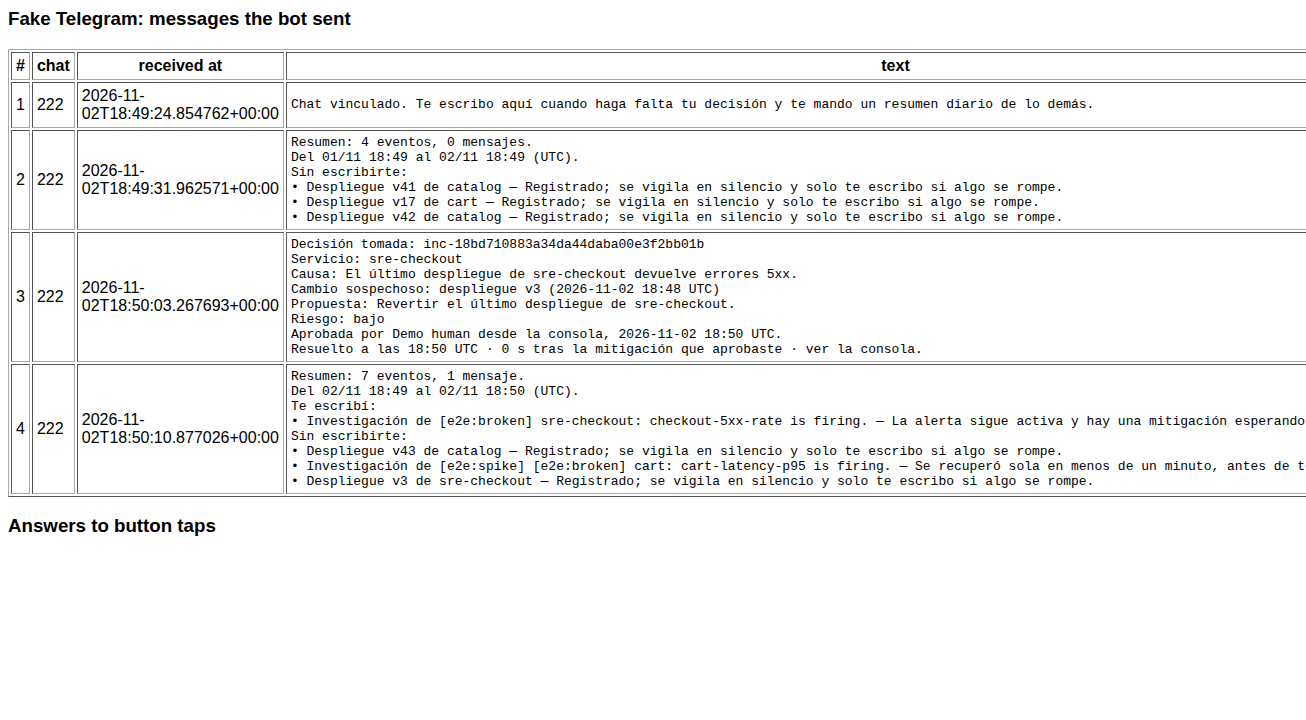
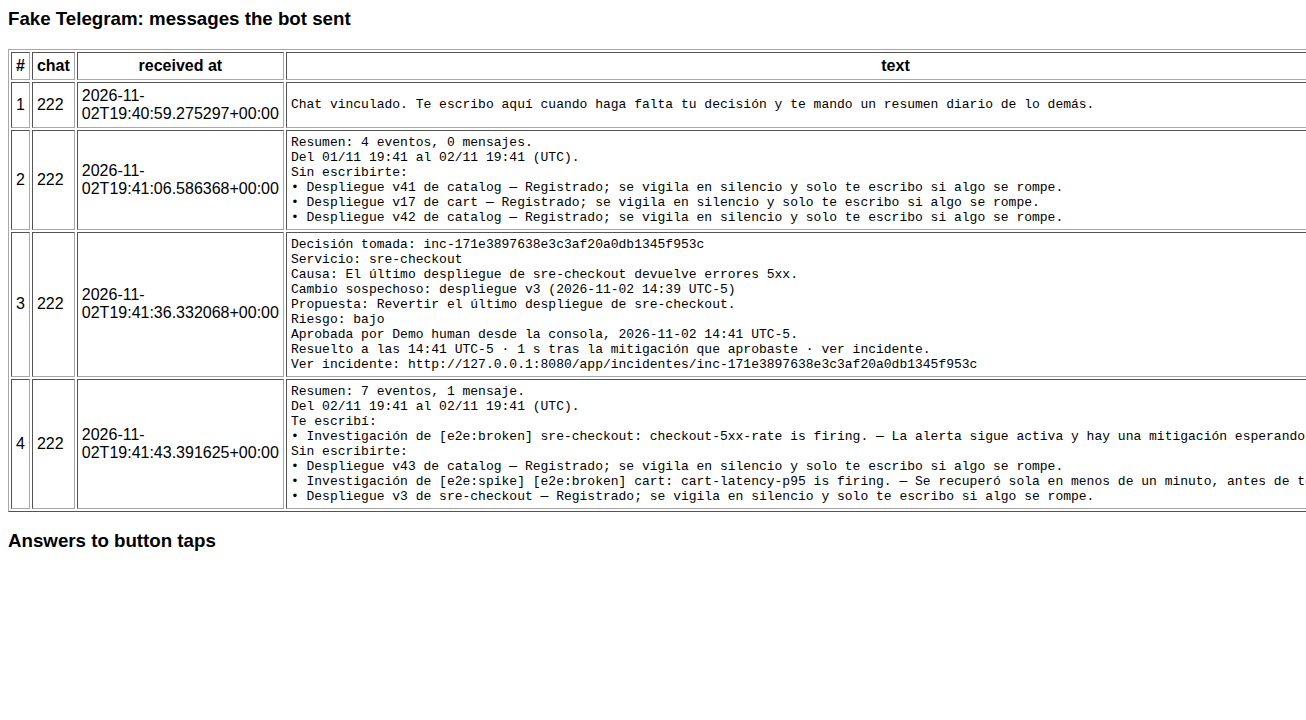
test(chat): console link button, text fallback and Bogotá times in the chat E2Es
Refs #723

diff --git a/scripts/telegram_e2e.py b/scripts/telegram_e2e.py
@@ -28,6 +28,20 @@ LEGACY = 777  # linked before #767: no principal
 SECOND, VIEWER = 555, 666  # linked as demo-human, and as a human without run.approve
 VIEWER_ID, VIEWER_NAME = "e2e-viewer", {"display_name": "E2E viewer"}
 GROUP = -100767  # a group the operator is in: Telegram reports the operator as the sender
+# Set by scripts/run_telegram_e2e.sh for the gateway: a host the fake accepts link buttons for.
+CONSOLE = os.environ["CONSOLE_PUBLIC_URL"].rstrip("/")
+
+
+def link_of(message: dict[str, Any]) -> list[list[str]]:
+    """The message's «Ver incidente» row, as the fake recorded it."""
+    incident_id = message["text"].splitlines()[0].rsplit(" ", 1)[-1]
+    expected = [["Ver incidente", f"{CONSOLE}/incidentes/{incident_id}"]]
+    return [row for row in message["buttons"] if [list(b) for b in row] == expected]
+
+
+def decides(message: dict[str, Any]) -> bool:
+    """Whether the message still offers decision buttons; its link decides nothing."""
+    return any(not data.startswith("http") for row in message["buttons"] for _, data in row)
 
 
 def http(method: str, url: str, body: Any = None, headers: dict[str, str] | None = None) -> Any:
@@ -372,11 +386,17 @@ def proposals(stamp: str, legacy_code: str) -> None:
             == ["reject"],
             "each offers Aprobar and Rechazar": buttons
             == [["Aprobar", "Rechazar"]] * len(JOURNEYS),
+            "each links to its incident in the console": all(
+                m["buttons"][1:] == link_of(m) != [] for m in messages
+            ),
+            "times are in the configured zone (Bogotá)": all(
+                "(2026-10-31 05:00 UTC-5)" in m["text"] for m in messages
+            ),
             "the callback data is opaque": all(
                 TOKEN.fullmatch(d) and "inc-" not in d and "run_" not in d for d in data
             ),
             "a chat linked before #767 gets no buttons but how to decide from it": all(
-                m["buttons"] == [] and m["text"].endswith("vincular este chat a tu usuario.")
+                not decides(m) and m["text"].endswith("vincular este chat a tu usuario.")
                 for m in legacy
             ),
             "only decision messages carry the decision marker": all(
@@ -451,8 +471,10 @@ def approve() -> None:
             "the mitigation is approved": approval_status("approve") == "approved",
             "the answer says who decided": answer.startswith("Aprobada por Demo")
             and "desde Telegram" in answer,
-            "the message shows who decided and loses its buttons": edited["buttons"] == []
+            "the message shows who decided and loses its buttons": not decides(edited)
             and edited["text"].endswith(answer),
+            "it keeps the link to the incident": edited["buttons"] == link_of(edited) != [],
+            "the decision time is in the configured zone": answer.endswith(" UTC-5."),
         },
     )
 
@@ -609,7 +631,7 @@ def stale() -> None:
             "a tap on a version the incident left behind decides nothing": before == [],
             "the operator is told the incident changed": answer == retry
             and answer.startswith("El incidente cambió"),
-            "the old message loses its buttons": old["buttons"] == []
+            "the old message loses its buttons": not decides(old)
             and "desactualizada" in old["text"],
             "one fresh decision message with a new token arrives": len(renewed) == 1
             and renewed[0]["buttons"] != first["buttons"],
@@ -666,7 +688,8 @@ def console() -> None:
         | {"edited": edited, "decisions": rows},
         {
             "a console decision edits the message with no tap": len(edits) == 1
-            and untapped["buttons"] == [],
+            and not decides(untapped)
+            and untapped["buttons"] == link_of(untapped) != [],
             "the edit says what was decided, by whom and where": untapped["text"]
             .splitlines()[-1]
             .startswith("Rechazada por Demo")
@@ -678,7 +701,7 @@ def console() -> None:
             "the mitigation stays rejected": approval_status("console") == "rejected",
             "the answer gives the current state": answer.startswith("Rechazada por")
             and "desde la consola" in answer,
-            "the message shows it and loses its buttons": edited["buttons"] == [],
+            "the message shows it and loses its buttons": not decides(edited),
         },
     )
 
@@ -703,8 +726,8 @@ def recovery() -> None:
         *(json.loads(PROPOSALS.read_text())[j]["incident_id"] for j in ("approve", "stale")),
     )
     recovered = re.fullmatch(
-        r"Resuelto a las \d\d:\d\d UTC · \d+ (s|min) tras la mitigación que aprobaste · "
-        r"ver la consola\.",
+        r"Resuelto a las \d\d:\d\d UTC-5 · \d+ (s|min) tras la mitigación que aprobaste · "
+        r"ver incidente\.",
         resolved["text"].splitlines()[-1],
     )
     record(
@@ -749,7 +772,7 @@ def reject() -> None:
             "the mitigation is rejected": approval_status("reject") == "rejected",
             "the answer and the message say who rejected": answer.startswith("Rechazada por")
             and edited["text"].endswith(answer)
-            and edited["buttons"] == [],
+            and not decides(edited),
         },
     )
 

diff --git a/tests/fake_telegram.py b/tests/fake_telegram.py
@@ -3,7 +3,9 @@ sendMessage with inline keyboards, answerCallbackQuery and editMessageText.
 
 Like Telegram, it keeps an update until a getUpdates offset above its id confirms it, answers
 401 to any other token, 400 to a text over 4096 characters, to a callback answer over 200 and
-to an edit that changes nothing.
+to an edit that changes nothing. It refuses URL buttons on `localhost` or on an IP address that
+is not public (loopback, private, tailnet) with BUTTON_URL_INVALID; that is this fake's stand-in
+for the hosts real Telegram refuses, not a verified copy of its rules.
 `/_test/*` lets the E2E play the user: inject messages and button taps, read what the bot sent
 (with the time each send arrived), the callback answers and the edits, and fail sends.
 
@@ -11,9 +13,11 @@ to an edit that changes nothing.
 """
 
 import asyncio
+import ipaddress
 from datetime import UTC, datetime
 from html import escape
 from typing import Any
+from urllib.parse import urlsplit
 
 from fastapi import FastAPI, Request
 from fastapi.responses import HTMLResponse, JSONResponse
@@ -27,6 +31,20 @@ answers: list[dict[str, Any]] = []
 edits: list[dict[str, Any]] = []
 state = {"next_update": 1, "fail_sends": 0}
 arrived = asyncio.Condition()
+
+
+def _buttons(fields: dict[str, Any]) -> list[list[tuple[str, str]]] | None:
+    """(label, callback data or URL) per button; None when a URL button would be refused."""
+    rows = (fields.get("reply_markup") or {}).get("inline_keyboard", [])
+    for button in (b for row in rows for b in row if "url" in b):
+        host = urlsplit(button["url"]).hostname or ""
+        try:
+            refused = not ipaddress.ip_address(host).is_global
+        except ValueError:
+            refused = host == "localhost" or "." not in host
+        if refused:
+            return None
+    return [[(b["text"], b.get("callback_data") or b["url"]) for b in row] for row in rows]
 
 
 def _reply(result: Any = None, status: int = 200, description: str = "") -> JSONResponse:
@@ -59,15 +77,14 @@ async def bot(token: str, method: str, request: Request) -> JSONResponse:
             return _reply(status=502, description="Bad Gateway (fake failure)")
         if not 1 <= len(fields["text"]) <= 4096:
             return _reply(status=400, description="Bad Request: message is too long")
+        if (buttons := _buttons(fields)) is None:
+            return _reply(status=400, description="Bad Request: BUTTON_URL_INVALID")
         record = {
             "message_id": len(sent) + 1,
             "chat_id": fields["chat_id"],
             "text": fields["text"],
             "received_at": datetime.now(UTC).isoformat(),
-            "buttons": [
-                [(b["text"], b["callback_data"]) for b in row]
-                for row in (fields.get("reply_markup") or {}).get("inline_keyboard", [])
-            ],
+            "buttons": buttons,
         }
         sent.append(record)
         return _reply(record)
@@ -87,9 +104,11 @@ async def bot(token: str, method: str, request: Request) -> JSONResponse:
         )
         if message is None:
             return _reply(status=400, description="Bad Request: message to edit not found")
-        if message["text"] == fields["text"] and not message["buttons"]:
+        if (buttons := _buttons(fields)) is None:
+            return _reply(status=400, description="Bad Request: BUTTON_URL_INVALID")
+        if message["text"] == fields["text"] and message["buttons"] == buttons:
             return _reply(status=400, description="Bad Request: message is not modified")
-        message.update(text=fields["text"], buttons=[])
+        message.update(text=fields["text"], buttons=buttons)
         edits.append({**fields, "edited_at": datetime.now(UTC).isoformat()})
         return _reply(message)
     return _reply(status=404, description="Not Found")

diff --git a/scripts/interrupt_policy_e2e.py b/scripts/interrupt_policy_e2e.py
@@ -15,7 +15,9 @@ the decisions from GET /v1/event-decisions. Ways the policy can fail, each check
    its event;
 5. the decisions answer a caller without alert.read;
 6. a decision taken in the console, and the recovery after it, send a new message or count as
-   an event instead of editing the decision message the operator already has.
+   an event instead of editing the decision message the operator already has;
+7. a console link Telegram refuses as a button (a loopback host here) loses the message instead
+   of travelling as text, or a time is not in the configured zone (Bogotá).
 Appends every observation to /artifacts/interrupt-policy-e2e.json; any failed check exits 1.
 """
 
@@ -40,6 +42,8 @@ OPERATOR = 222
 READER = os.environ["DEMO_HUMAN_API_KEY"]
 INTEGRATION = os.environ["DEPLOY_EXECUTOR_CHANGES_API_KEY"]
 INTAKE_SECRET = os.environ["ALERT_INTAKE_GRAFANA_SECRET"]
+# Set by scripts/run_interrupt_policy_e2e.sh: a loopback console the fake refuses as a button.
+CONSOLE = os.environ["CONSOLE_PUBLIC_URL"].rstrip("/")
 
 
 def http(method: str, path: str, body: Any = None, key: str | None = None) -> tuple[int, Any]:
@@ -202,6 +206,12 @@ def three_events() -> None:
             "a single immediate message": len(immediate) == 1,
             "it is about the broken deploy": "sre-checkout" in immediate[0]["text"],
             "it is the decision message, with its buttons": bool(immediate[0]["buttons"]),
+            "the refused link button travels as a text link": immediate[0]["text"].endswith(
+                f"Ver incidente: {CONSOLE}/incidentes/{immediate[0]['text'].split()[3]}"
+            )
+            and all(
+                not data.startswith("http") for row in immediate[0]["buttons"] for _, data in row
+            ),
             "the digest counts 1 message": ", 1 mensaje." in sent_digest["text"],
             "the spike appears in the digest": "cart" in sent_digest["text"]
             and "Se recuperó sola" in sent_digest["text"],
@@ -254,9 +264,11 @@ def decided_in_console() -> None:
             "the console approval edits the decision message": after_approval["buttons"] == []
             and "Aprobada por Demo" in after_approval["text"]
             and "desde la consola" in after_approval["text"],
-            "the recovery edits it again": message["text"]
-            .splitlines()[-1]
-            .startswith("Resuelto a las"),
+            "the recovery edits it again, in Bogotá time, keeping the text link": message["text"]
+            .splitlines()[-2]
+            .startswith("Resuelto a las")
+            and " UTC-5 · " in message["text"]
+            and message["text"].splitlines()[-1].startswith("Ver incidente: "),
             "neither sends a new message": len(sent()) == messages,
             "neither is an event the policy decides": sql(
                 "SELECT count(*) FROM incident.event_decisions"
